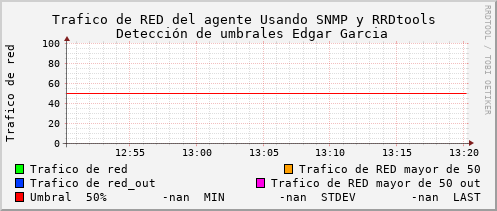
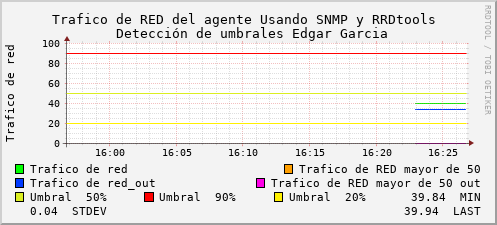
Update modificacion de la practica
se envian las 3 alertas

diff --git a/p3/Parte1- Línea Base/trendGraphDetection.py b/p3/Parte1- Línea Base/trendGraphDetection.py
@@ -22,9 +22,13 @@ def graficar_todo():
                          "VDEF:cargaSTDEV=cargaCPU,STDEV",
                          "VDEF:cargaLAST=cargaCPU,LAST",
                          "CDEF:umbral50=cargaCPU,50,LT,0,cargaCPU,IF",
+                              "CDEF:umbral51=cargaCPU,10,LT,0,cargaCPU,IF",
+                              "CDEF:umbral52=cargaCPU,70,LT,0,cargaCPU,IF",
                          "AREA:cargaCPU#00FF00:Carga del CPU",
                          "AREA:umbral50#FF9F00:Carga CPU mayor de 50",
-                         "HRULE:50#FF0000:Umbral  50%",
+                         "HRULE:50#dbee21:Umbral  50%",
+                              "HRULE:10#fff000:Umbral  10%",
+                              "HRULE:70#FF0000:Umbral  70%",
                          "PRINT:cargaLAST:%6.2lf",
                          "GPRINT:cargaMIN:%6.2lf %SMIN",
                          "GPRINT:cargaSTDEV:%6.2lf %SSTDEV",
@@ -47,9 +51,13 @@ def graficar_todo():
                                  "VDEF:cargaSTDEV=cargaRAM,STDEV",
                                  "VDEF:cargaLAST=cargaRAM,LAST",
                                  "CDEF:umbral50=cargaRAM,85,LT,0,cargaRAM,IF",
+                                 "CDEF:umbral51=cargaRAM,20,LT,0,cargaRAM,IF",
+                                 "CDEF:umbral52=cargaRAM,50,LT,0,cargaRAM,IF",
                                  "AREA:cargaRAM#00FF00:Carga de la RAM",
                                  "AREA:umbral50#FF9F00:Carga RAM mayor de 50",
                                  "HRULE:85#FF0000:Umbral  85%",
+                                 "HRULE:50#dbee21:Umbral  50%",
+                                 "HRULE:20#fff000:Umbral  20%",
                                  "PRINT:cargaLAST:%6.2lf",
                                  "GPRINT:cargaMIN:%6.2lf %SMIN",
                                  "GPRINT:cargaSTDEV:%6.2lf %SSTDEV",
@@ -76,11 +84,15 @@ def graficar_todo():
                               "VDEF:cargaSTDEV_2=cargaRED_2,STDEV",
                               "VDEF:cargaLAST_2=cargaRED_2,LAST",
                          "CDEF:umbral50=cargaRED,50,LT,0,cargaRED,IF",
+                              "CDEF:umbral51=cargaRED,20,LT,0,cargaRED,IF",
+                              "CDEF:umbral52=cargaRED,90,LT,0,cargaRED,IF",
                          "LINE:cargaRED#00FF00:Trafico de red",
                          "LINE:umbral50#FF9F00:Trafico de RED mayor de 50",
                               "LINE:cargaRED_2#003aff:Trafico de red_out",
                               "LINE:umbral50#ff00e8:Trafico de RED mayor de 50 out",
-                         "HRULE:50#FF0000:Umbral  50%",
+                         "HRULE:50#dbee21:Umbral  50%",
+                              "HRULE:90#FF0000:Umbral  90%",
+                              "HRULE:20#fff000:Umbral  20%",
                          "PRINT:cargaLAST:%6.2lf",
                          "GPRINT:cargaMIN:%6.2lf %SMIN",
                          "GPRINT:cargaSTDEV:%6.2lf %SSTDEV",
@@ -92,17 +104,29 @@ def graficar_todo():
         timestamp=ultima_actualizacion['date'].timestamp()
         dato=ultima_actualizacion['ds']["CPUload"]
         dato2 = ultima_actualizacion['ds']["RAMload"]
-        daro3 = ultima_actualizacion['ds']["REDload"]
+        dato3 = ultima_actualizacion['ds']["REDload"]
         print(dato)
-        generarGrafica(int(timestamp))
-        generarGraficaRam(int(timestamp))
-        generarGraficaRed(int(timestamp))
-        if dato> 50 or dato2 > 85:
+        #generarGrafica(int(timestamp))
+        #generarGraficaRam(int(timestamp))
+        #generarGraficaRed(int(timestamp))
+        if dato> 50 or dato2 > 50 or dato3 >50:
            generarGrafica(int(timestamp))
            generarGraficaRam(int(timestamp))
            generarGraficaRed(int(timestamp))
-           send_alert_attached("Sobrepasa el umbral Edgar Garcia Marciano")
-           print("sobrepasa el umbral")
+           send_alert_attached("Sobrepasa el umbral medio Edgar Garcia Marciano")
+           print("sobrepasa el umbral medio")
+        if dato > 70 or dato2 > 85 or dato3 > 90:
+            generarGrafica(int(timestamp))
+            generarGraficaRam(int(timestamp))
+            generarGraficaRed(int(timestamp))
+            send_alert_attached("Sobrepasa el umbral maximo Edgar Garcia Marciano")
+            print("sobrepasa el umbral maximo")
+        if dato> 10 or dato2 > 20 or dato3 >20:
+           generarGrafica(int(timestamp))
+           generarGraficaRam(int(timestamp))
+           generarGraficaRed(int(timestamp))
+           send_alert_attached("Sobrepasa el umbral minimo Edgar Garcia Marciano")
+           print("sobrepasa el umbral minimo")
         time.sleep(20)
 
 #graficar_todo()

diff --git a/p3/Parte1- Línea Base/TrendUpdate.py b/p3/Parte1- Línea Base/TrendUpdate.py
@@ -32,8 +32,8 @@ def actualizar_todo(comunidad,localhost):
             consultaSNMP(comunidad, localhost, oid_ram))) * 100 / int(
             consultaSNMP(comunidad, localhost, oid_ram2))
 
-        carga_RED_1 = (int(consultaSNMP(comunidad,localhost,oid_red)) )/10000
-        carga_RED_2= int(consultaSNMP(comunidad,localhost,oid_red_s))/100000
+        carga_RED_1 = (int(consultaSNMP(comunidad,localhost,oid_red)) )/100000
+        carga_RED_2= int(consultaSNMP(comunidad,localhost,oid_red_s))/1000000
 
         valor = "N:" + str(suma)+ ":" +str(carga_RAM)+":" +str(carga_RED_1)+":" +str(carga_RED_2)
         print (valor)
